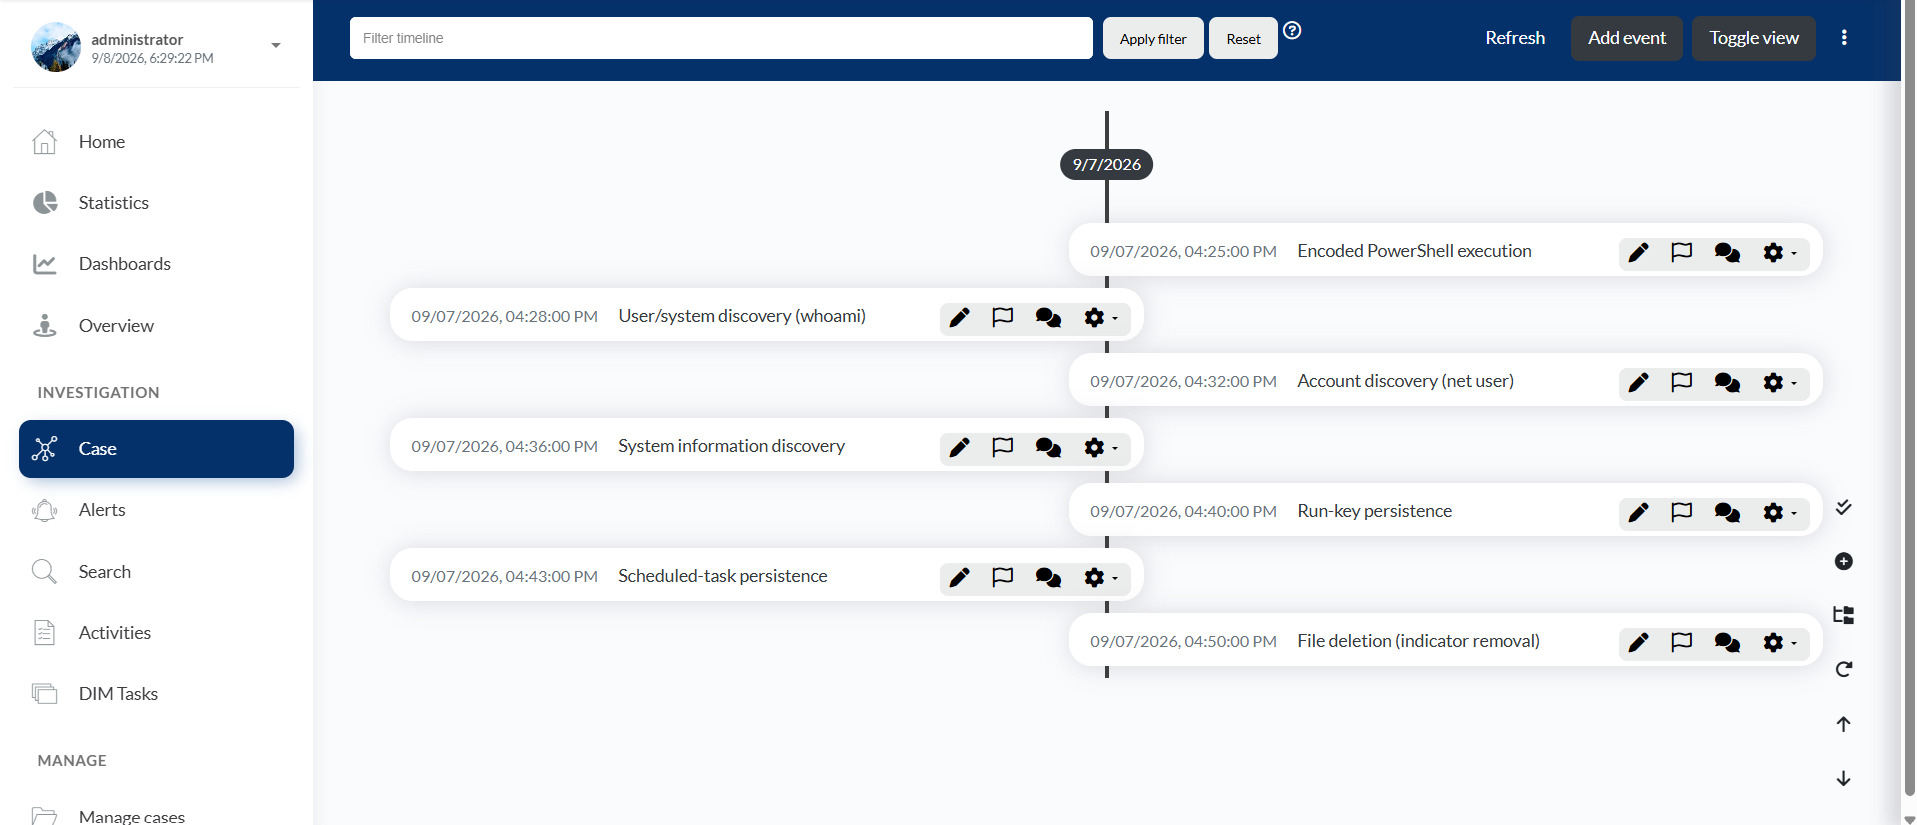
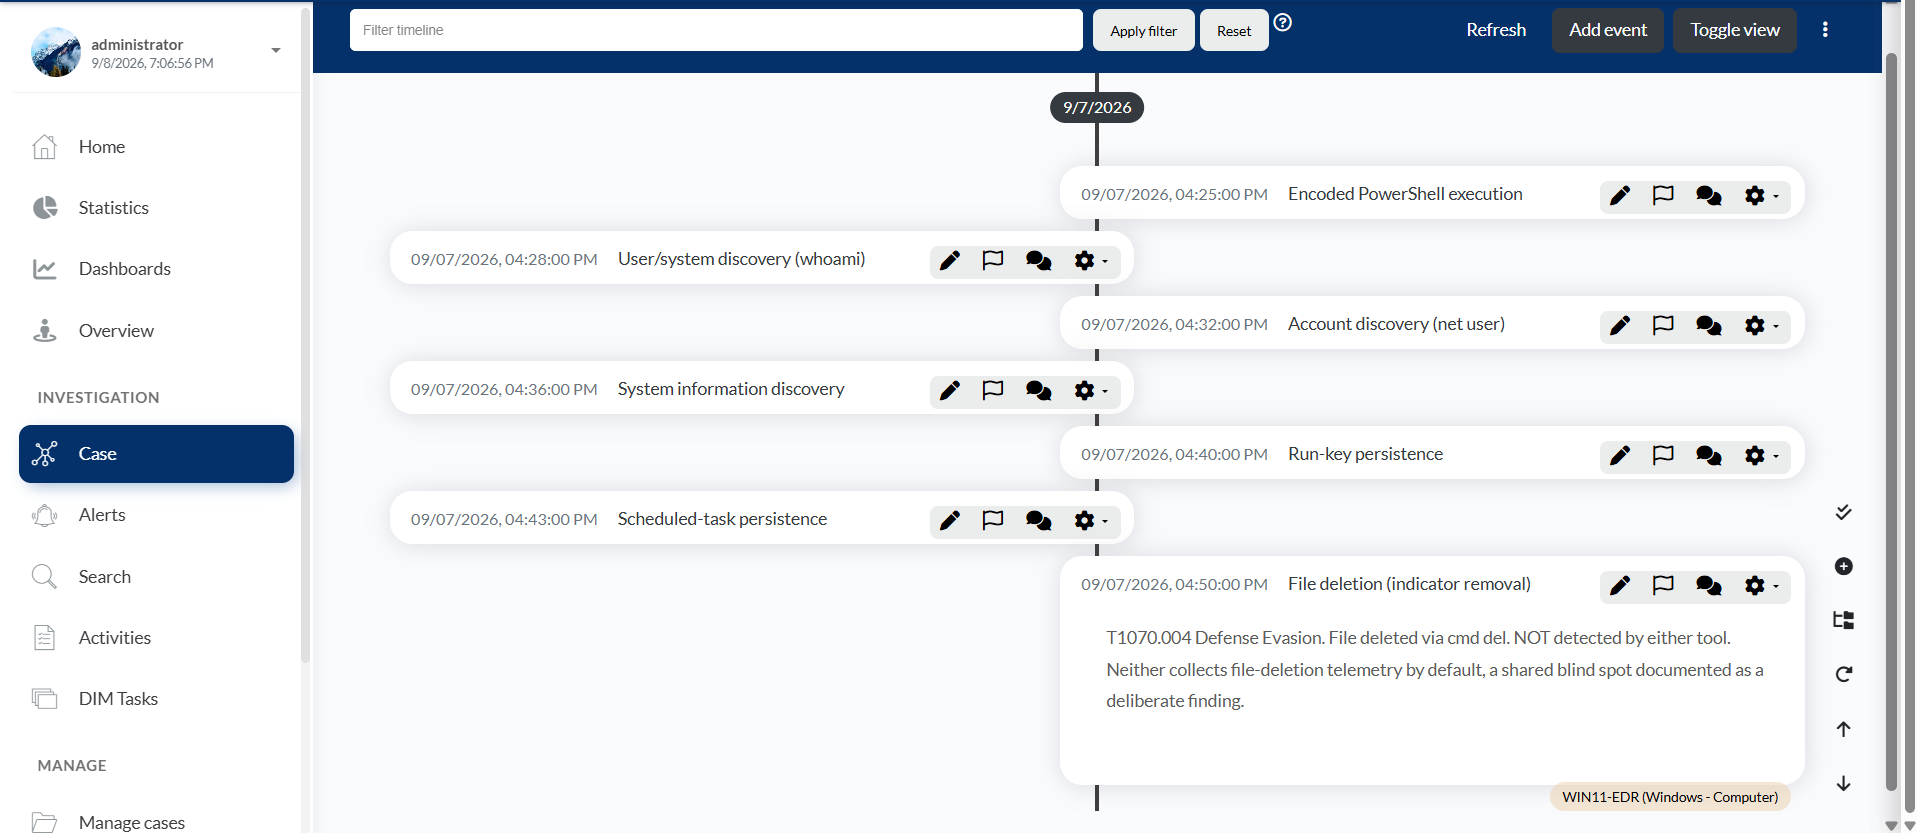
Project 4: file-deletion blind spot made explicit in the timeline

diff --git a/04-adversary-emulation/README.md b/04-adversary-emulation/README.md
@@ -107,7 +107,7 @@ Detecting an attack is only half of the work. The other half is investigating it
 
 - **Assets:** the affected host and account, establishing the scope.
 - **Indicators:** the artifacts each technique left behind (the encoded command, the discovery commands, the Run key, the scheduled task), which could be hunted for on other hosts.
-- **Timeline:** the seven techniques in attacker order, each annotated with the tool that detected it.
+- **Timeline:** the seven techniques in attacker order, each noting which tool detected it, or that neither did. File deletion is included although both tools missed it, because the timeline reconstructs the full attack, not only the steps that alerted.
 - **Tasks and ATT&CK tags:** the investigative actions, mapped back to the framework.
 
 ![Case summary](screenshots/07-iris-case-summary.png)
